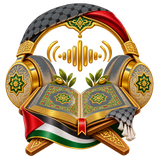
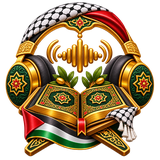
New Palestine drawings for Reading Settings, Khatam, Juz, Hizb and Audio
Five pairs replace what was there for four of them and are drawn
afresh for the fifth.

Reader Settings had no Palestine drawing at all, so the reading
preferences card on the Quran screen had been showing the Islamic
theme's art in both themes. It is the first entry in that set; the key
carries a space, so it is quoted where its single-word neighbours are
not.

The other four replace earlier drawings. They are written to the
-palestine files rather than to the names they arrived under: juz.png,
hizb.png, khatam.png and audio.png are the Islamic theme's own art, and
overwriting those would have taken the Islamic theme's icons with them.

Every incoming file was checked before it was written: all ten are
distinct from one another, none collides with the Islamic art, and each
differs from the Palestine drawing it replaces, so nothing here is a
copy of what was already shipped.

Sized to 160 square and optimised: 22.6 MB in, 541 KB out, which is in
line with the rest of the folder.

diff --git a/App.tsx b/App.tsx
@@ -1310,6 +1310,9 @@ const TOOL_IMAGES_PALESTINE: Record<string, any> = {
   Juz: require('./assets/tool-icons/juz-palestine.png'),
   Hizb: require('./assets/tool-icons/hizb-palestine.png'),
   Audio: require('./assets/tool-icons/audio-palestine.png'),
+  /* The Quran screen's reading-preferences card. Its key carries a space, so
+     it is quoted here while the single-word ones above are not. */
+  'Reader Settings': require('./assets/tool-icons/reader-settings-palestine.png'),
 };
 const TOOL_IMAGES_PALESTINE_DARK: Record<string, any> = {
   Vocab: require('./assets/tool-icons/vocab-dark-palestine.png'),
@@ -1321,6 +1324,7 @@ const TOOL_IMAGES_PALESTINE_DARK: Record<string, any> = {
   Juz: require('./assets/tool-icons/juz-dark-palestine.png'),
   Hizb: require('./assets/tool-icons/hizb-dark-palestine.png'),
   Audio: require('./assets/tool-icons/audio-dark-palestine.png'),
+  'Reader Settings': require('./assets/tool-icons/reader-settings-dark-palestine.png'),
 };
 function ToolGraphic({tool,size=64}:{tool:string;size?:number}){const{dark,resolved}=useTheme();
   /* By theme, the way the prayer icons are: a theme carries its lightness with
